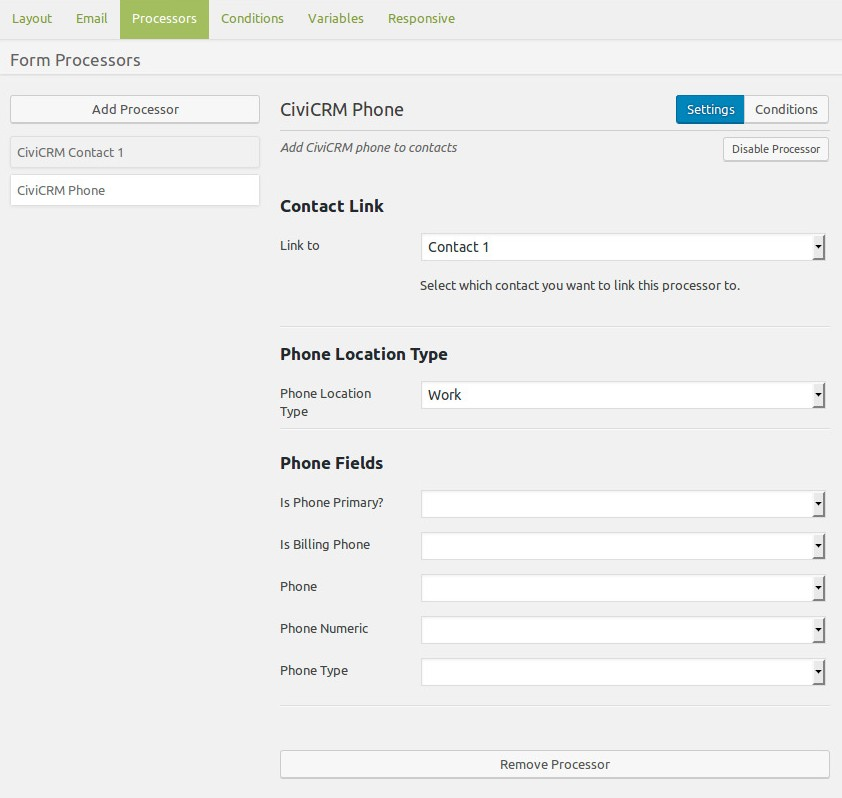
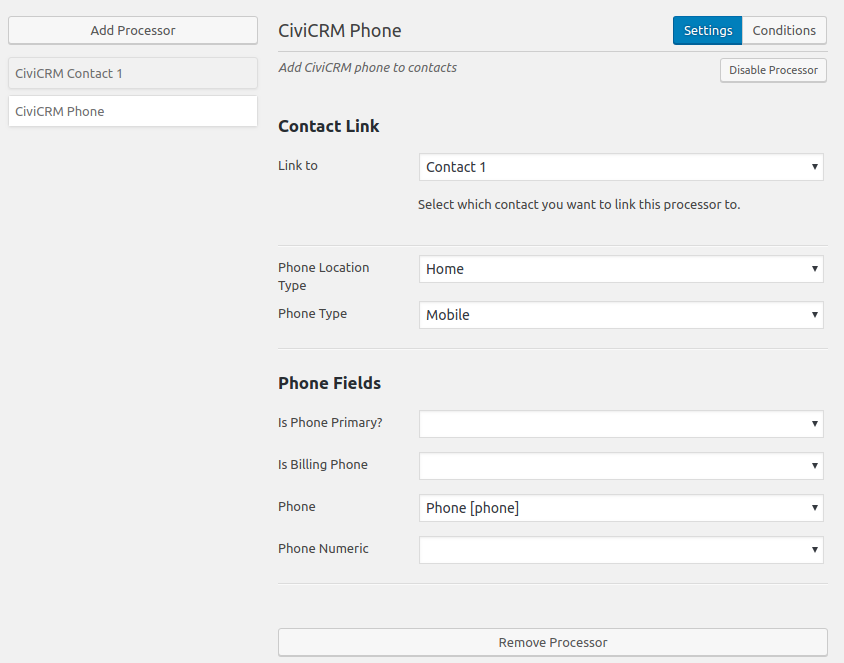
Docs update for 0.4.4 release

diff --git a/docs/processors.md b/docs/processors.md
@@ -2,7 +2,7 @@
 
 The following Processors are added when the CiviCRM Caldera Forms plugin is activated. Multiple processors of each type can be used to accomplish for each Caldera form.
 
-### Contact entity
+### Contact
 
 This processor is the one that needs to be used before others can be used, as it defines that contact the information is being applied to in CiviCRM. Rquired fields for using this processor are Contact Type and Dedupe Rule.
 
@@ -18,62 +18,103 @@ The contact processor has some of the processors outlined below built in, so tha
 
 However, keep in mind that if some of the fields are not required separate processors may need to be used with condition set, see [overview of Caldera Forms](./overview.md).
 
-### Activity entity
+### Activity
 
 The Activity Processor provides the ability to record an activity for one more contacts on form submission. The activities available are all the activities available in CiviCRM and custom fields for those Activity Types can also be processed.
 
 ![CiviCRM Activity Processor](./images/civicrm-activity-processor.jpg)
 
-### Relationship entity
+### Relationships
 
 The Relationship processor provides a way to assign a relationship to two contacts on form submission. The Relationship Types are selected from the ones avaialbe in your CiviCRM instance.
 
 ![CiviCRM Relationships Processor](./images/civicrm-relationship-processor.jpg)
 
-### Group entity
+### Groups
 
 The Group processor allows for a contact to be added to a group on form submission.
 
 ![CiviCRM Group Processor](./images/civicrm-group-processor.jpg)
 
-### Tag entity
+### Tags
 
 The Tag processor allows for a tag to be added to a contact on on form submission.
 
 ![CiviCRM Tag Processor](./images/civicrm-tag-processor.jpg)
 
-### Address entity
+### Address
 
 The Address processor provides the ability for a specific address type to be added or update for that contact in CiviCRM.
 
 ![CiviCRM Address Processor](./images/civicrm-address-processor.jpg)
 
-### Email entity
+### Email
 
 The Email processor provides the ability for a specific email address type to be added or update for that contact in CiviCRM.
 
 ![CiviCRM Email Processor](./images/civicrm-email-processor.jpg)
 
-### Phone entity
+### Phone
 
-The Phone processor provides the ability for a specific phone number and type to be added or update for that contact in CiviCRM.
+The Phone processor provides the ability for a specific phone number and type to be added or update for that contact in CiviCRM, you'll need to select the Contact to link it too, the Phone Location Type, Phone Type and the Phone field at a minimum.
 
 ![CiviCRM Phone Processor](./images/civicrm-phone-processor.jpg)
 
-### Note entity
+### Note
 
 The Note processor allows for a subject and note to be added to a contact on on form submission.
 
 ![CiviCRM Note Processor](./images/civicrm-note-processor.jpg)
 
-### Website entity
+### Website
 
 The Website processor provides the ability for a specific URL and type to be added or update for that contact in CiviCRM.
 
 ![CiviCRM Website Processor](./images/civicrm-website-processor.jpg)
 
-### IM (Instant Messenger) entity
+### IM (Instant Messenger)
 
 The IM processor provides the ability for a specific IM and type to be added or update for that contact in CiviCRM.
 
 ![CiviCRM IM (Instant Messenger) Processor](./images/civicrm-im-processor.jpg)
+
+### Send Email 
+
+If you install and enable the [E-mail API Extension](https://civicrm.org/extensions/e-mail-api) the Send Email processor becomes available and you can select from CiviCRM Message Templates a email notification that can be sent on form submission. 
+
+![CFC Send Email with Email API extension](./images/cfc-send-email-processor-email-api.png)
+
+### Case
+
+When CiviCase is enabled a Case processor is available that allows for a case to be opened on form submission. 
+
+![CFC Open a Case](./images/cfc-open-case-processor.png)
+
+
+### Contributions
+
+The CiviCRM Contribution provides a way to use a Caldera Forms calculation fields and payment processor and send contribution details to CiviCRM. 
+
+![CiviCRM Contribution Processor](./images/civicrm-contribution-processor.jpg)
+
+### Memberships
+
+The CiviCRM Membership provides the ability to register and renew memberships. By using this processor you can renew existing memberships as is done using a contribution page, or create new memberships at each renewal. 
+
+![CFC Membership Processor](./images/cfc-membership-processor.png)
+
+
+### Price Set Line Items
+
+The CiviCRM Line Item connects Caldera form fields to Line Items in a price set to record transaction details. When using the CiviCRM Membership Processor you can connect the contributions details to the membership record. Once the membership processor is setup a unique variable ID is created and available for selection in the Line Item processor to connect these two entities. 
+
+![CiviCRM Line Item with Memberhips Processor](./images/civicrm-line-item-with-membership-processor.jpg)
+
+![CiviCRM Line Item Donation Processor](./images/civicrm-line-item-donation-processor.jpg)
+
+### Orders
+
+The CiviCRM Order processor is where you can connect everything into one contribution record, by mapping all line items into one order.
+
+![CiviCRM Order Processor](./images/cfc-order-processor.png)
+

diff --git a/docs/custom-fields.md b/docs/custom-fields.md
@@ -8,6 +8,7 @@ When adding new fields to your Caldera form there are two new options available 
 
 * CiviCRM Country
 * CiviCRM State/Provice
+* Contact Reference
 
 ![Caldera CiviCRM Special Fields Types](./images/caldera-civicrm-special-fields.jpg)
 
@@ -17,17 +18,53 @@ The default Country and State/Province used in the field will be taken from the 
 
 ## Custom Data with Select fields
 
-You can create custom fields in CiviCRM that are:
+You can create custom fields in CiviCRM that are become available in the Caldera Forms integration. Custom Fields can be mapped on the [Contact](./processors.md#contact) and [Activity](./processors.md#activity) processors using [Magic Tags](./overview.md#magic-tags) field options.
+
+The field types that currently can be used are:
 
 * Dropdown Select
 * Checkbox
 * Radio
-* Date Picker
+* Date Picker (also works with `Single Text Field`, HTML 5 option `Date`)
 
-And have then select those options when you setup your Caldera Form. Start by adding a new field to the form and giving it a name. Then scroll down to the Bulk Insert/Preset option and select the field creating in CiviCRM you want to use and click Insert Options.
+If the field doesn't exist in CiviCRM, start by creating the new custom fields in CiviCRM before adding the fields to the Caldera Form.
+
+There are several data entities available in the Auto Populate or Bulk/Insert Presets. Some of the data options available are:
+
+* Custom Fields
+* Communication Preferences and Contact fields
+* Price Set Line Items
+* Payment Method Types
+
+#### Auto Populate
+
+With the Auto Populate option it provides a quick way to add CiviCRM data fields to a Caldera Form. There are no Caldera side changes or editing options, so it allows for forms to be setup more quickly. 
+
+![Auto Populate Data Sources](./images/cfc-auto-pupulate-data-sources.png)
+
+**Admin side display**
+
+![Auto Populate admin side field](./images/cfc-auto-pupulate-admin.png)
+**Front-end form side display**
+
+![Auto Populate front-end form field](./images/cfc-auto-pupulate-fe-form.png)
+
+#### Bulk/Insert Presets
+
+With using the Bulk/Insert Preset options you can bring CiviCRM data into a from and then edit within Caldera to tweak. What all **needs** to remain the same is the *Value* in Caldera, which matches the database ID in CiviCRM.
+
+![Data Sources for Bulk Insert/Preset](./images/cfc-bulk-insert-data-source-presets.png)
+
+Start by adding a new field to the form and giving it a name. Then scroll down to the Bulk Insert/Preset option and select the field creating in CiviCRM you want to use and click Insert Options.
 
 ![Bulk Insert/Preset](./images/caldera-select-bulk-insert.png)
+
+***Note:** The option you decide to use may be based on whether you need to use the field data values as conditions in a processor. For example if you have multiple member types and based on that selection provide specific options to each member type, it's best to use the Bulk/Insert Preset option, since those fields will be available for selection on conditions.*
 
 When using the Date Picker you must use the same settings that are in **Administer > Localization > Date Formats** in the **Date Input Fields** section. And adjusted by customized in **Administer > Customize Data and Screens > Date Preferences**
 
 ![Date Picker Field Format](./images/caldera-civicrm-date-format.jpg)
+
+The Single Line Text fields has an HTML 5 Date option that can also be used.
+
+![Date HTML5 field](./images/cfc-single-text-html5-date.png)

diff --git a/docs/examples/subscriptions.md b/docs/examples/subscriptions.md
@@ -1,0 +1,39 @@
+# Subscription Examples
+
+## Simple Subscription Form
+
+A one field form that asks for their email address and adds them to the Newsletter Subscriber group.
+
+![Simple Subscribe Email Form](../images/simple-subscribe-form.png)
+
+This form just requires one field to be added and the contact processor to be configured. Check to Process group for this contact option. After setting the Contact Type and Dedupe rules, in the Contact Standard fields add the email and select the group they should be added too.
+
+![Subscriber Contact Processor Setting](../images/subscriber-newsletter.png)
+
+![Add subscriber to group](../images/subscriber-email-group.png)
+
+## Multiple Subscription Groups
+
+If your organization has multiple subscription options, where folks can select what options they receive, providing a checkboxes for them to make selections so they can be added to the right mailing group. Setup a form with the contact and subscription options set.
+
+![Subscription Options](../images/select-subscriptions.png)
+
+Then go to the Processor and add the Contact Processor. In this case we are only going to use the contact processor for contact details in the Contact Standard Fields section and use separate group processors for each selection. This way the contact will only be added to the subscription group if they select the option.
+
+To add the contact to the right group we will use the [Group processor](../processors.md#group) and use [conditions settings](../overview.md#conditions) in each processor to manage when each is used. In this example we have three subscriptions, so three group processors should be added selecting the group they should be added too and when then setting the condition for when this processor should be used.
+
+![Subscriber Set Group](../images/subscribers-set-group.png)
+
+![Subscriber Set Group Condition](../images/subscribers-set-group-condition.png)
+
+When complete, in this example, there should be four processors used, one for the contact and a group processor for each selection.
+
+## Multiple Subscription Custom Fields
+
+Another way to do this is using custom fields and then creating smart groups to create the mailing groups. To do this setup a Subscriptions custom field in CiviCRM using checkboxed and use the [Bulk/Insert Options](../custom-fields.md#bulkinsert-preset) to populate the Caldera Form.
+
+![Bulk/Insert Subscription](../images/subscribers-custom-field-options.png)
+
+Then go to Processors and only one processor is needed to add the magic tags to the Contact fields in the Contact Standard Fields and the Subscriptions in the Contact Custom Fields.
+
+![Subscription Custom Fields](../images/contact-processor-custom-field-subscriptions.png)

diff --git a/README.md b/README.md
@@ -12,6 +12,8 @@ The Caldera Forms CiviCRM plugin contains a set of form processors that interact
 * Map Custom Fields data
 * Add Relationships to each contact
 * Create Activities on form submission
+* Select Email Template for notification (requires [Email API Extension](https://civicrm.org/extensions/e-mail-api))
+* Open a Case on form submission
 * Checksum support to auto-populate form with URLs like **example.com/some-page?cid={contact.contact_id}&{contact.checksum}**
 * Add Memberships (CiviMember)
 * Add Contributions with Line Items (for live transactions a [Caldera Forms Payment add-on](https://calderaforms.com/caldera-forms-add-ons/#/payment) is needed)
@@ -31,9 +33,10 @@ To use this plugin, the following is needed:
 * Get an [overview of Caldera Forms](/docs/overview.md)
 * Setup [CiviCRM Processors](/docs/processors.md) on your form
 * Use [Custom Fields](/docs/custom-fields.md)
+* [Examples](/docs/examples.md)
 
 ### Contribute
 
 Please help improve this plugin by using the extension issue queue to report any troubles and to make requests for feature improvements. The issue queue is here: https://github.com/mecachisenros/caldera-forms-civicrm/issues
 
-Issues submitted to the issue queue will be addressed based on time and interest. If you are a [developer contributions](/docs/dev/contribute.md) are welcome.
+Issues submitted to the issue queue will be addressed based on time and interest. If you are a developer contributions are welcome.

diff --git a/docs/examples/contactform.md b/docs/examples/contactform.md
@@ -1,0 +1,13 @@
+# Contact Forms
+
+## Simple Contact Form
+The contact form on your website could record an activity about this communication in CiviCRM. For this creating a custom Activity Type called Communication is useful. A simple contact form may look like this:
+
+![Simple Contact Form](../images/simple-contact-form.png)
+
+To get this information into CiviCRM you will need to use the [Contact](./processors.md#contact) and [Activity](./processors.md#activity) processors. The Contact processor will set the contat type, dedupe rules and the contact details in the Contact Standard Fields section. And the Activity processor will record the Subject and Message.
+
+ ![Contact Form Communication Activity](../images/activity-type-contact-form.png)
+
+ The activity source will be the contact who filled in the form and activity date can be set with Date magic tag option and show.
+

diff --git a/docs/overview.md b/docs/overview.md
@@ -36,7 +36,7 @@ Conditions are used to manage the logic used for each processor. Without adding 
 
 Variables are dynamic form values that have use in either other areas of your form or in different parts of your website. Use a static variable to hold data that you might need to use as a magic tag in some other part of the Caldera Forms Builder. Use a passback variable to send data to the next HTTP request as query variables when using the redirect proccesor. For example you can send fields from one form to another.
 
-The variables are set in the first form simiarl to this:
+The variables are set in the first form similar to this:
 
 ![Caldera Variables Set](./images/caldera-variables-set.jpg)
 

diff --git a/docs/examples.md b/docs/examples.md
@@ -1,0 +1,6 @@
+# Examples using Caldera Forms Integration
+
+There are many ways processors can be used to add/update information in CiviCRM using Caldera Forms integration. In this section we will outline examples to help understand how you can use this integration.
+
+* Newsletter or similar [subscriptions](./examples/subscriptions.md)
+* [Contact Form](./examples/contactform.md)
